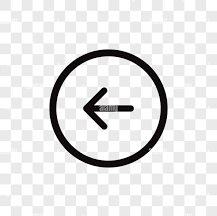
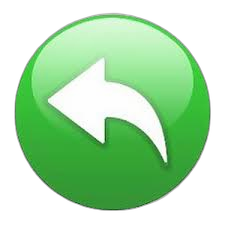
final changes!

diff --git a/src/ApplyGraphics/ChooseCardController.java b/src/ApplyGraphics/ChooseCardController.java
@@ -1,6 +1,7 @@
 package ApplyGraphics;
 
 import Character.KindsOfPlants.*;
+import javafx.application.Platform;
 import javafx.fxml.FXML;
 import javafx.fxml.FXMLLoader;
 import javafx.scene.Parent;
@@ -10,7 +11,7 @@ import javafx.scene.image.ImageView;
 import javafx.scene.input.MouseEvent;
 import javafx.scene.layout.GridPane;
 import javafx.scene.layout.VBox;
-import javafx.scene.Node;
+
 import java.io.IOException;
 import java.util.ArrayList;
 
@@ -40,6 +41,8 @@ public class ChooseCardController {
     private ImageView CherryBomb;
     @FXML
     private ImageView Jalapeno;
+    @FXML
+    private ImageView BackButton;
 
     public static VBox cards;
     public static ArrayList<Plant> cardPlants = new ArrayList<>();
@@ -49,7 +52,26 @@ public class ChooseCardController {
     public void initialize() {
         chooseCard();
         cards = playerCards;
+        MainMenuController.animateImage(BackButton);
 
+        BackButton.setOnMouseClicked(event -> {
+            backButton();
+        });
+
+    }
+    public void backButton(){
+        try {
+            FXMLLoader fxmlLoader = new FXMLLoader(getClass().getResource("Mode.fxml"));
+            Parent root = fxmlLoader.load();
+            Scene scene = new Scene(root);
+            GameMain.setFaceTransition(root);
+            MainMenuController.stage.setScene(scene);
+            MainMenuController.stage.setFullScreen(true);
+            MainMenuController.stage.show();
+            cardPlants.clear();
+        }catch (IOException e){
+            e.printStackTrace();
+        }
     }
 
     public void chooseCard(){

diff --git a/src/ApplyGraphics/OptionController.java b/src/ApplyGraphics/OptionController.java
@@ -1,0 +1,37 @@
+package ApplyGraphics;
+
+import javafx.fxml.FXML;
+import javafx.fxml.FXMLLoader;
+import javafx.scene.Parent;
+import javafx.scene.Scene;
+import javafx.scene.image.ImageView;
+
+import java.io.IOException;
+
+public class OptionController {
+
+    @FXML
+    private ImageView BackButton;
+
+    @FXML
+    public void initialize() {
+        MainMenuController.animateImage(BackButton);
+        BackButton.setOnMouseClicked(event -> {
+            backButton();
+        });
+    }
+
+    public void backButton(){
+        try {
+            FXMLLoader fxmlLoader = new FXMLLoader(getClass().getResource("MainMenu.fxml"));
+            Parent root = fxmlLoader.load();
+            Scene scene = new Scene(root);
+            GameMain.setFaceTransition(root);
+            MainMenuController.stage.setScene(scene);
+            MainMenuController.stage.setFullScreen(true);
+            MainMenuController.stage.show();
+        }catch (IOException e){
+            e.printStackTrace();
+        }
+    }
+}

diff --git a/src/ApplyGraphics/MainMenuController.java b/src/ApplyGraphics/MainMenuController.java
@@ -54,7 +54,7 @@ public class MainMenuController {
 
     public void optionButton(MouseEvent event) {
         try {
-            FXMLLoader fxmlLoader = new FXMLLoader(getClass().getResource("OptionScene.fxml"));
+            FXMLLoader fxmlLoader = new FXMLLoader(getClass().getResource("Option.fxml"));
             Parent root = fxmlLoader.load();
             Scene scene = new Scene(root);
             GameMain.setFaceTransition(root);

diff --git a/src/ApplyGraphics/GameMain.java b/src/ApplyGraphics/GameMain.java
@@ -32,7 +32,7 @@ public class GameMain extends Application {
     }
     public static void setFaceTransition(Parent root){
         //apply fadeTransition!
-        FadeTransition fadeIn = new FadeTransition(Duration.seconds(1), root);
+        FadeTransition fadeIn = new FadeTransition(Duration.seconds(0.5), root);
         fadeIn.setFromValue(0.0);
         fadeIn.setToValue(1.0);
         fadeIn.play();

diff --git a/src/ApplyGraphics/ModeController.java b/src/ApplyGraphics/ModeController.java
@@ -30,6 +30,7 @@ public class ModeController {
     public void initialize() {
         MainMenuController.animateImage(dayMode);
         MainMenuController.animateImage(nightMode);
+        MainMenuController.animateImage(BackButton);
 
         dayMode.setOnMouseClicked(event -> {
             modeSelected();
